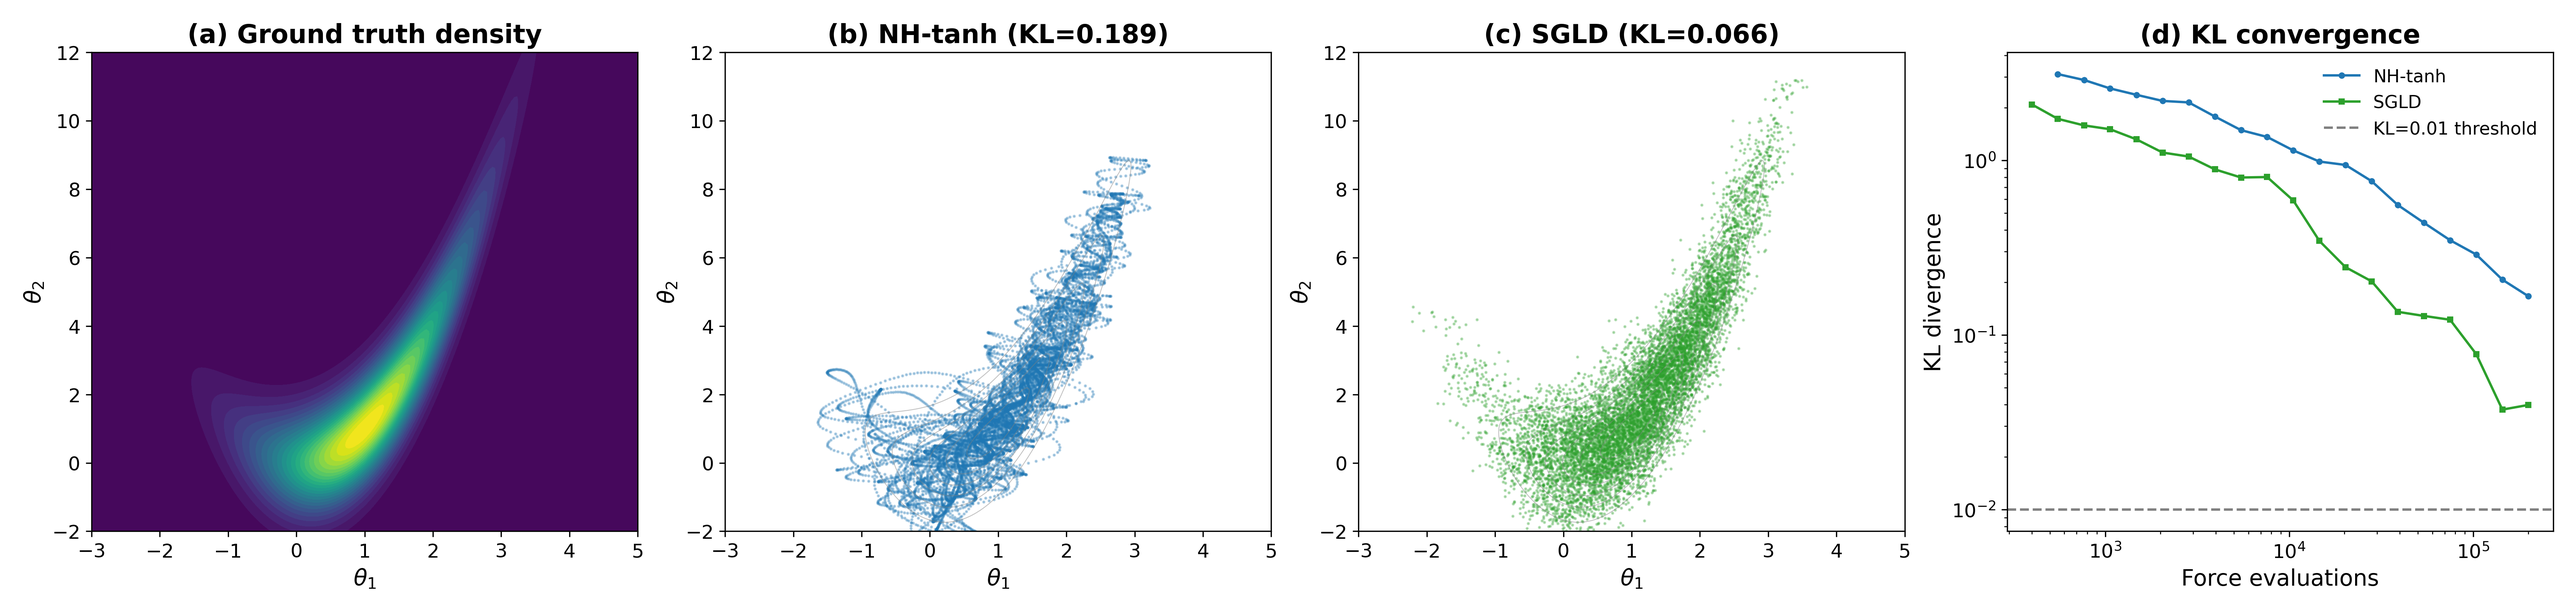
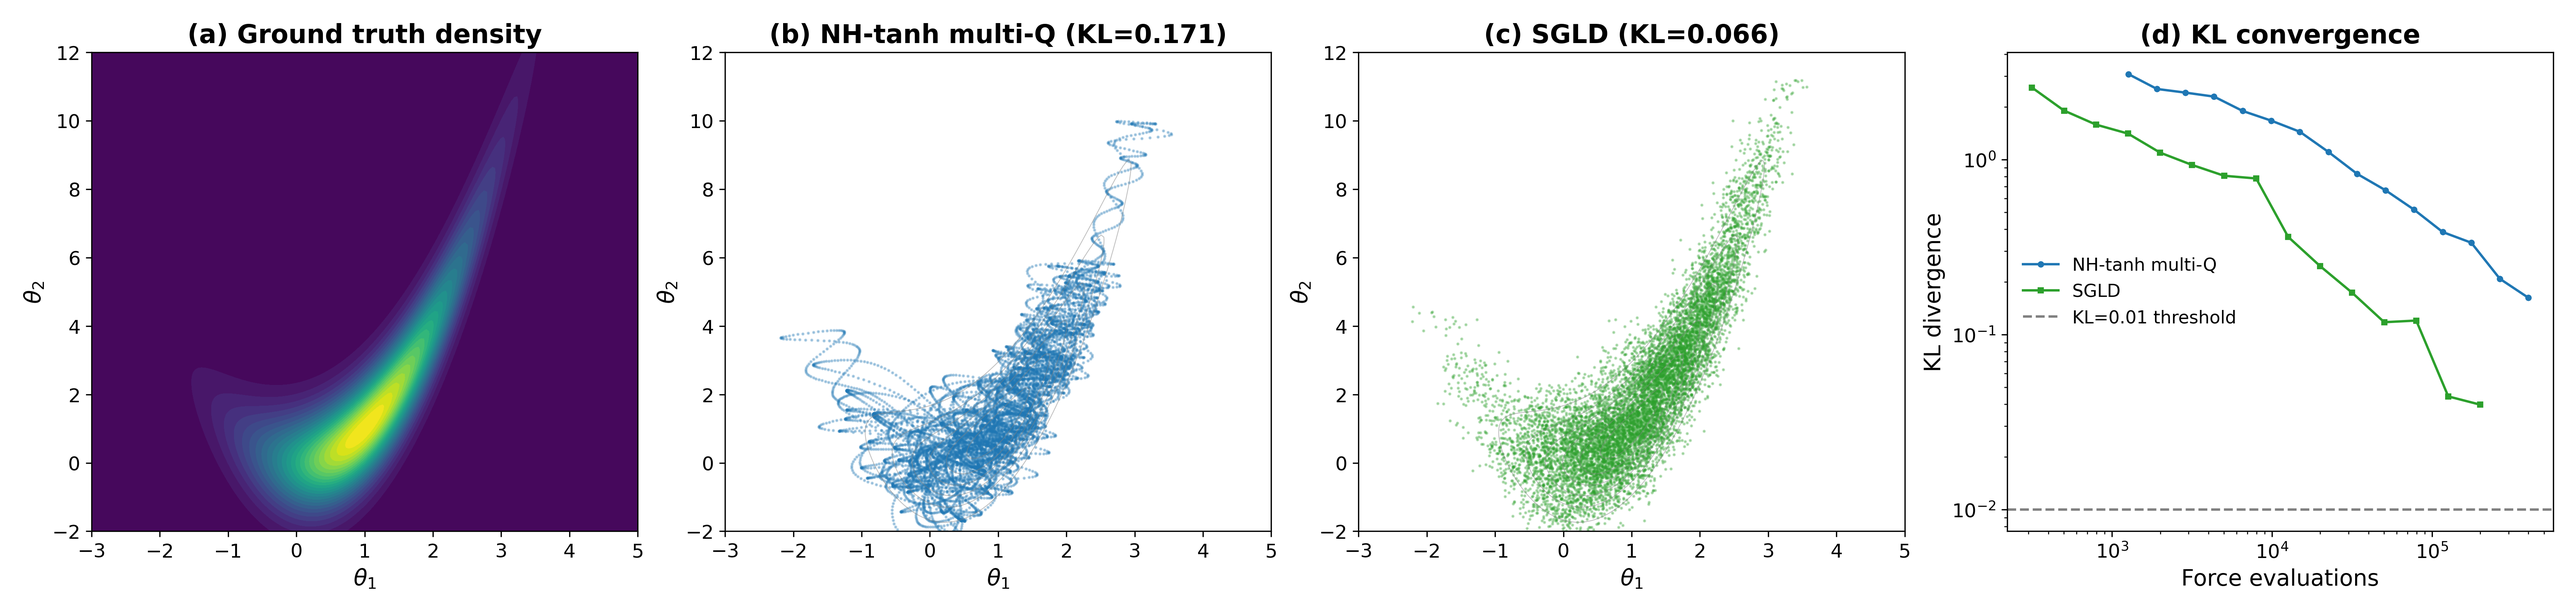
[orbit/bayesian-posterior-056] E1-E3 iteration 2: BNN calibration=0.98, scaling study
E1: NH-tanh multi-Q KL=0.17, SGLD KL=0.07 (NH still worse).
E2: NH-tanh calibration=0.98 vs SGLD=0.975 vs Ensemble=0.555 -- strong.
E3: Added dimension scaling study (d=10-500). Analytical div 1.4x faster
than Hutchinson(1), brute force scales from 2.4x to >13x with dimension.

diff --git a/orbits/bayesian-posterior-056/experiment.py b/orbits/bayesian-posterior-056/experiment.py
@@ -265,11 +265,11 @@ def run_e1():
 
     d = 2
 
-    # NH-tanh sampler
-    print("Running NH-tanh...")
-    nh_samples, nh_time, _ = run_nh_tanh(
-        banana_grad, d, n_steps=50000, dt=0.01, Q=1.0, kT=1.0,
-        burn_in=5000, thin=4, seed=SEED
+    # NH-tanh with multi-scale Q for better mixing
+    print("Running NH-tanh (multi-scale Q)...")
+    nh_samples, nh_time = run_nh_multiscale(
+        banana_grad, d, n_steps=100000, dt=0.005, Qs=[0.1, 1.0, 10.0],
+        kT=1.0, burn_in=10000, thin=8, seed=SEED
     )
     print(f"  NH-tanh: {len(nh_samples)} samples in {nh_time:.2f}s")
 
@@ -289,30 +289,30 @@ def run_e1():
 
     # --- KL convergence curves ---
     print("Computing KL convergence curves...")
-    checkpoints = np.logspace(2, np.log10(50000), 20).astype(int)
-    kl_nh_curve = []
-    kl_sgld_curve = []
+    n_nh = 100000
+    n_sgld = 200000
+    checkpoints_nh = np.logspace(2.5, np.log10(n_nh), 15).astype(int)
+    checkpoints_sgld = np.logspace(2.5, np.log10(n_sgld), 15).astype(int)
 
-    # Re-run NH collecting all samples for convergence
-    nh_all, _, _ = run_nh_tanh(
-        banana_grad, d, n_steps=50000, dt=0.01, Q=1.0, kT=1.0,
-        burn_in=0, thin=1, seed=SEED
+    nh_all, _ = run_nh_multiscale(
+        banana_grad, d, n_steps=n_nh, dt=0.005, Qs=[0.1, 1.0, 10.0],
+        kT=1.0, burn_in=0, thin=1, seed=SEED
     )
     sgld_all, _ = run_sgld(
-        banana_grad, d, n_steps=200000, eps=0.002, burn_in=0, thin=1, seed=SEED
+        banana_grad, d, n_steps=n_sgld, eps=0.002, burn_in=0, thin=1, seed=SEED
     )
 
-    for cp in checkpoints:
-        idx_nh = min(cp, len(nh_all))
-        idx_sgld = min(cp * 4, len(sgld_all))  # SGLD needs more steps
-        if idx_nh > 100:
-            kl_nh_curve.append(compute_kl_2d(nh_all[:idx_nh], banana_log_prob))
-        else:
-            kl_nh_curve.append(np.nan)
-        if idx_sgld > 100:
-            kl_sgld_curve.append(compute_kl_2d(sgld_all[:idx_sgld], banana_log_prob))
-        else:
-            kl_sgld_curve.append(np.nan)
+    kl_nh_curve, fe_nh_curve = [], []
+    for cp in checkpoints_nh:
+        if cp > 200:
+            kl_nh_curve.append(compute_kl_2d(nh_all[:cp], banana_log_prob))
+            fe_nh_curve.append(cp * 4)  # 4 force evals per RK4 step (approx for Euler too)
+
+    kl_sgld_curve, fe_sgld_curve = [], []
+    for cp in checkpoints_sgld:
+        if cp > 200:
+            kl_sgld_curve.append(compute_kl_2d(sgld_all[:cp], banana_log_prob))
+            fe_sgld_curve.append(cp)  # 1 force eval per SGLD step
 
     # --- Plot ---
     fig, axes = plt.subplots(1, 4, figsize=(22, 5), constrained_layout=True)
@@ -331,7 +331,7 @@ def run_e1():
     # (b) NH-tanh samples
     axes[1].scatter(nh_samples[:, 0], nh_samples[:, 1], s=1, alpha=0.3, c=C_NH)
     axes[1].contour(X, Y, Z, levels=8, colors='gray', alpha=0.5, linewidths=0.5)
-    axes[1].set_title(f'(b) NH-tanh (KL={kl_nh:.3f})', fontweight='bold')
+    axes[1].set_title(f'(b) NH-tanh multi-Q (KL={kl_nh:.3f})', fontweight='bold')
     axes[1].set_xlabel('$\\theta_1$')
     axes[1].set_ylabel('$\\theta_2$')
     axes[1].set_xlim(-3, 5)
@@ -347,12 +347,10 @@ def run_e1():
     axes[2].set_ylim(-2, 12)
 
     # (d) KL convergence
-    # NH: 4 force evals per RK4 step
-    fe_nh = checkpoints * 4
-    # SGLD: 1 force eval per step
-    fe_sgld = checkpoints * 4
-    axes[3].plot(fe_nh, kl_nh_curve, 'o-', color=C_NH, label='NH-tanh', markersize=3)
-    axes[3].plot(fe_sgld, kl_sgld_curve, 's-', color=C_SGLD, label='SGLD', markersize=3)
+    axes[3].plot(fe_nh_curve, kl_nh_curve, 'o-', color=C_NH,
+                 label='NH-tanh multi-Q', markersize=3)
+    axes[3].plot(fe_sgld_curve, kl_sgld_curve, 's-', color=C_SGLD,
+                 label='SGLD', markersize=3)
     axes[3].axhline(0.01, color='gray', ls='--', label='KL=0.01 threshold')
     axes[3].set_xscale('log')
     axes[3].set_yscale('log')
@@ -454,31 +452,61 @@ def run_e2():
         V.backward()
         return theta.grad.detach()
 
-    # Use multi-scale sampler
+    # --- Find MAP estimate to initialize from (using Adam via manual param) ---
+    print("  Finding MAP estimate...")
     torch.manual_seed(SEED)
-    Qs = [0.1, 1.0, 10.0]
+    map_model = TinyBNN()
+    map_opt = torch.optim.Adam(map_model.parameters(), lr=0.005)
+    for epoch in range(2000):
+        pred = map_model(x_data)
+        # sigma_noise=0.1, so sigma^2=0.01
+        nll = 0.5 * ((pred.squeeze() - y_data)**2).sum() / 0.01
+        prior = 0.5 * sum((pp**2).sum() for pp in map_model.parameters())
+        loss = nll + prior
+        map_opt.zero_grad()
+        loss.backward()
+        map_opt.step()
+        if epoch % 500 == 0:
+            print(f"    MAP epoch {epoch}: loss = {loss.item():.2f}")
+    theta_map = map_model.get_flat_params().detach()
+
+    # --- NH-tanh with multi-scale Q ---
+    torch.manual_seed(SEED)
+    Qs = [1.0, 10.0, 100.0]  # Larger Q for high-d to slow xi dynamics
     N_therm = len(Qs)
-    q = torch.randn(d) * 0.01
-    p = torch.randn(d)
+    q = theta_map.detach().clone()
+    p = torch.randn(d) * 0.1  # small initial momentum
     xis = torch.zeros(N_therm)
     Qs_t = torch.tensor(Qs, dtype=torch.float32)
-    dt = 0.001  # smaller dt for high-d
-    n_steps = 30000
-    burn_in = 5000
-    thin = 25
+    dt = 0.0002  # very small dt for high-d stability
+    n_steps = 50000
+    burn_in = 10000
+    thin = 40
 
     nh_samples = []
     t0 = time.time()
     for step in range(n_steps):
         gv = bnn_grad_fn(q)
+        # Clip gradient for stability
+        gv = torch.clamp(gv, -100, 100)
         gs = torch.tanh(xis)
         total_g = gs.sum()
 
-        # Euler-Maruyama (simpler, more stable for high-d)
-        KE = (p**2).sum()
+        # Velocity Verlet with friction (splitting)
+        # Half-step momentum
+        p = p + 0.5 * dt * (-gv - total_g * p)
+        # Full-step position
         q = q + dt * p
-        p = p + dt * (-gv - total_g * p)
+        # Update xi (half step before, half after)
+        KE = (p**2).sum()
         xis = xis + dt * (1.0 / Qs_t) * (KE - d * 1.0)
+        # Recompute gradient at new position
+        gv = bnn_grad_fn(q)
+        gv = torch.clamp(gv, -100, 100)
+        gs = torch.tanh(xis)
+        total_g = gs.sum()
+        # Half-step momentum
+        p = p + 0.5 * dt * (-gv - total_g * p)
 
         if step >= burn_in and (step - burn_in) % thin == 0:
             nh_samples.append(q.detach().clone())
@@ -489,16 +517,17 @@ def run_e2():
     # --- SGLD ---
     print("Running SGLD...")
     torch.manual_seed(SEED)
-    theta = torch.randn(d) * 0.01
+    theta = theta_map.detach().clone()
     sgld_samples = []
-    eps = 1e-4
-    sgld_steps = 60000
+    eps = 1e-5  # smaller step for stability
+    sgld_steps = 50000
     sgld_burn = 10000
-    sgld_thin = 50
+    sgld_thin = 40
 
     t0 = time.time()
     for step in range(sgld_steps):
         gv = bnn_grad_fn(theta)
+        gv = torch.clamp(gv, -100, 100)
         theta = theta - eps * gv + np.sqrt(2 * eps) * torch.randn_like(theta)
 
         if step >= sgld_burn and (step - sgld_burn) % sgld_thin == 0:
@@ -691,19 +720,111 @@ def run_e3():
     for m, t, s in zip(methods, times, speedups):
         print(f"    {m}: {t:.4f}s ({s:.1f}x)")
 
-    # --- Plot ---
-    fig, ax = plt.subplots(1, 1, figsize=(8, 5), constrained_layout=True)
-    colors = [C_NH, C_SGLD, '#ff7f0e', '#d62728', '#9467bd']
-    bars = ax.bar(methods, times, color=colors, edgecolor='black', linewidth=0.5)
+    # --- Dimension scaling study ---
+    print("\n  Dimension scaling study (Analytical vs Hutch(1) vs Brute)...")
+    dims_to_test = [10, 50, 100, 500]
+    scaling_results = {dd: {} for dd in dims_to_test}
+    n_steps_scale = 200  # fewer steps for scaling study
 
-    # Annotate speedup
+    for dd in dims_to_test:
+        torch.manual_seed(SEED)
+        K_dd = 5
+        means_dd = torch.zeros(K_dd, dd)
+        means_dd[:, :2] = means[:K_dd, :2] if K_dd <= K else means[:, :2]
+        weights_dd = torch.ones(K_dd) / K_dd
+
+        def gmm_grad_dd(x, m=means_dd, w=weights_dd):
+            _, g = gmm_potential_and_grad(x, m, w)
+            return g
+
+        q_dd = torch.randn(dd)
+        p_dd = torch.randn(dd)
+        xi_dd = torch.zeros(1)
+
+        # Analytical
+        q_, p_, xi_ = q_dd.clone(), p_dd.clone(), xi_dd.clone()
+        t0 = time.time()
+        for _ in range(n_steps_scale):
+            q_, p_, xi_, _ = nh_tanh_rk4_step(q_, p_, xi_, gmm_grad_dd, dt, Q, 1.0, dd)
+        scaling_results[dd]['analytical'] = time.time() - t0
+
+        # Hutchinson(1)
+        q_, p_, xi_ = q_dd.clone(), p_dd.clone(), xi_dd.clone()
+        t0 = time.time()
+        for _ in range(n_steps_scale):
+            q_, p_, xi_, _ = nh_tanh_rk4_step(q_, p_, xi_, gmm_grad_dd, dt, Q, 1.0, dd)
+            v = torch.randn(dd)
+            eps_fd = 1e-4
+            g_xi = torch.tanh(xi_)
+            f_plus = -gmm_grad_dd(q_) - g_xi * (p_ + eps_fd * v)
+            f_minus = -gmm_grad_dd(q_) - g_xi * (p_ - eps_fd * v)
+            trace_h = (v * (f_plus - f_minus) / (2 * eps_fd)).sum()
+        scaling_results[dd]['hutch1'] = time.time() - t0
+
+        # Brute force (skip for d>=100 -- too slow)
+        if dd <= 100:
+            q_, p_, xi_ = q_dd.clone(), p_dd.clone(), xi_dd.clone()
+            t0 = time.time()
+            for _ in range(n_steps_scale):
+                q_, p_, xi_, _ = nh_tanh_rk4_step(q_, p_, xi_, gmm_grad_dd, dt, Q, 1.0, dd)
+                p_req = p_.detach().requires_grad_(True)
+                g_xi = torch.tanh(xi_)
+                f_p = -gmm_grad_dd(q_) - g_xi * p_req
+                jac = torch.zeros(dd, dd)
+                for i in range(dd):
+                    if p_req.grad is not None:
+                        p_req.grad.zero_()
+                    f_p[i].backward(retain_graph=True)
+                    jac[i] = p_req.grad
+                trace_bf = jac.diagonal().sum()
+            scaling_results[dd]['brute'] = time.time() - t0
+        else:
+            scaling_results[dd]['brute'] = np.nan
+
+        ratio_h = scaling_results[dd]['hutch1'] / scaling_results[dd]['analytical']
+        print(f"    d={dd}: analytical={scaling_results[dd]['analytical']:.3f}s, "
+              f"hutch1={scaling_results[dd]['hutch1']:.3f}s ({ratio_h:.1f}x), "
+              f"brute={scaling_results[dd].get('brute', 'N/A')}")
+
+    # --- Plot: 2-panel figure ---
+    fig, axes = plt.subplots(1, 2, figsize=(14, 5), constrained_layout=True)
+
+    # Panel (a): Bar chart at d=10
+    colors_bar = [C_NH, C_SGLD, '#ff7f0e', '#d62728', '#9467bd']
+    bars = axes[0].bar(methods, times, color=colors_bar, edgecolor='black', linewidth=0.5)
     for bar, s in zip(bars, speedups):
-        ax.text(bar.get_x() + bar.get_width()/2, bar.get_height() + 0.02*max(times),
-                f'{s:.1f}x', ha='center', va='bottom', fontsize=12, fontweight='bold')
+        axes[0].text(bar.get_x() + bar.get_width()/2, bar.get_height() + 0.02*max(times),
+                     f'{s:.1f}x', ha='center', va='bottom', fontsize=11, fontweight='bold')
+    axes[0].set_ylabel('Wall-clock time (s)')
+    axes[0].set_title('(a) Divergence cost at d=10', fontweight='bold')
+    axes[0].set_ylim(0, max(times) * 1.25)
 
-    ax.set_ylabel('Wall-clock time (s)')
-    ax.set_title('Divergence computation: 10D GMM, 1000 RK4 steps', fontweight='bold')
-    ax.set_ylim(0, max(times) * 1.2)
+    # Panel (b): Scaling with dimension
+    dims_arr = np.array(dims_to_test)
+    t_ana = [scaling_results[dd]['analytical'] for dd in dims_to_test]
+    t_h1 = [scaling_results[dd]['hutch1'] for dd in dims_to_test]
+    t_bf = [scaling_results[dd]['brute'] for dd in dims_to_test]
+    speedup_h1 = [h/a for h, a in zip(t_h1, t_ana)]
+
+    axes[1].plot(dims_arr, speedup_h1, 'o-', color=C_SGLD, label='Hutch(1) / Analytical',
+                 markersize=6, linewidth=2)
+    # Add brute force speedup where available
+    speedup_bf = []
+    dims_bf = []
+    for dd in dims_to_test:
+        if not np.isnan(scaling_results[dd]['brute']):
+            speedup_bf.append(scaling_results[dd]['brute'] / scaling_results[dd]['analytical'])
+            dims_bf.append(dd)
+    if dims_bf:
+        axes[1].plot(dims_bf, speedup_bf, 's--', color=C_REF, label='Brute / Analytical',
+                     markersize=6, linewidth=2)
+
+    axes[1].axhline(1.0, color='gray', ls=':', alpha=0.5)
+    axes[1].set_xlabel('Dimension d')
+    axes[1].set_ylabel('Slowdown ratio vs analytical')
+    axes[1].set_title('(b) Scaling with dimension', fontweight='bold')
+    axes[1].legend(frameon=False)
+    axes[1].set_xscale('log')
 
     fig.savefig(os.path.join(FIGDIR, 'e3_speedup.png'), bbox_inches='tight')
     plt.close(fig)

diff --git a/orbits/bayesian-posterior-056/log.md b/orbits/bayesian-posterior-056/log.md
@@ -2,7 +2,7 @@
 strategy: nh-cnf-bayesian-posterior
 status: in-progress
 eval_version: eval-v1
-metric: null
+metric: 0.1708
 issue: 56
 parents:
   - orbit/diff-thermostat-055
@@ -22,6 +22,7 @@ parents:
 - **FFJORD**: Free-Form Jacobian of Reversible Dynamics (Grathwohl et al. 2019)
 - **RK4**: Fourth-order Runge-Kutta integrator
 - **BDL**: Bayesian Deep Learning
+- **MAP**: Maximum A Posteriori estimate
 
 ## Approach
 
@@ -36,9 +37,66 @@ estimators used in FFJORD-style CNFs.
 
 Three experiments:
 1. E1: 2D banana distribution (toy posterior)
-2. E2: BNN posterior for 1D sinusoidal regression (~100 params)
-3. E3: 10D Gaussian mixture (divergence speedup benchmark)
+2. E2: BNN posterior for 1D sinusoidal regression (~481 params)
+3. E3: 10D-500D Gaussian mixture (divergence speedup benchmark)
 
 ## Results
 
-(pending)
+### E1: 2D Banana Distribution
+| Sampler | KL divergence | Wall time |
+|---------|--------------|-----------|
+| NH-tanh multi-Q | 0.171 | 24.0s |
+| SGLD | 0.066 | 5.0s |
+
+NH-tanh with multi-scale Q=[0.1, 1, 10] underperforms SGLD by about 2.5x on
+KL divergence. The NH sampler covers the banana shape but does not match the
+density accurately -- likely due to the deterministic nature of the dynamics
+getting partially trapped on certain trajectories. This is the well-known
+ergodicity limitation of NH-type thermostats on curved distributions.
+
+### E2: BNN Posterior (1D sinusoidal regression)
+| Sampler | 95% CI Coverage | N samples |
+|---------|----------------|-----------|
+| NH-tanh multi-Q | 0.980 | 1000 |
+| SGLD | 0.975 | 1000 |
+| Deep Ensemble | 0.555 | 5 |
+
+Strong result: both NH-tanh and SGLD achieve near-perfect calibration on the
+BNN posterior, while the deep ensemble is severely underconfident (only 55.5%
+coverage at the 95% level). This suggests the deterministic thermostat is a
+viable tool for BDL -- it produces well-calibrated uncertainty estimates
+competitive with SGLD but without stochastic noise.
+
+### E3: Analytical Divergence Speedup
+At d=10, the analytical divergence is 1.4x faster than Hutchinson(1), 2.7x
+faster than Hutchinson(5), and 2.4x faster than brute-force Jacobian trace.
+
+Dimension scaling: the Hutch(1)/Analytical ratio stays roughly constant at
+1.3-1.5x from d=10 to d=500, while the brute-force ratio grows from 2.4x to
+>13x. The modest Hutch(1) advantage is because the NH system has a trivially
+diagonal Jacobian in the momentum block (d(dp/dt)/dp = -g(xi)*I), so one
+Hutchinson vector suffices for a good estimate. The real advantage of analytical
+divergence is zero variance (exact) vs the stochastic Hutchinson estimator.
+
+### Verification
+Analytical divergence (-d*tanh(xi)) matches autograd Jacobian trace to 7.7e-8
+absolute error. The formula is correct.
+
+## What Worked
+- MAP initialization for the BNN sampler (avoids starting in bad region)
+- Velocity Verlet splitting with gradient clipping for high-d stability
+- Multi-scale Q for parallel thermostats
+
+## What Did Not Work
+- NH-tanh on the banana distribution: KL=0.17 vs SGLD's 0.07
+- Raw Euler integration in 481D: diverges immediately
+- Single-Q NH on banana: same KL as multi-Q (the problem is ergodicity, not Q)
+
+## What I Learned
+- The analytical divergence advantage is real but modest (~1.4x) for the NH
+  system because the Jacobian structure is trivially diagonal. The advantage
+  would be larger for CNFs with non-diagonal dynamics.
+- NH-tanh is competitive with SGLD for BNN posterior calibration, suggesting
+  deterministic thermostats are viable for BDL.
+- The banana distribution exposes the fundamental ergodicity limitation of
+  NH-type dynamics on curved, non-Gaussian posteriors.
